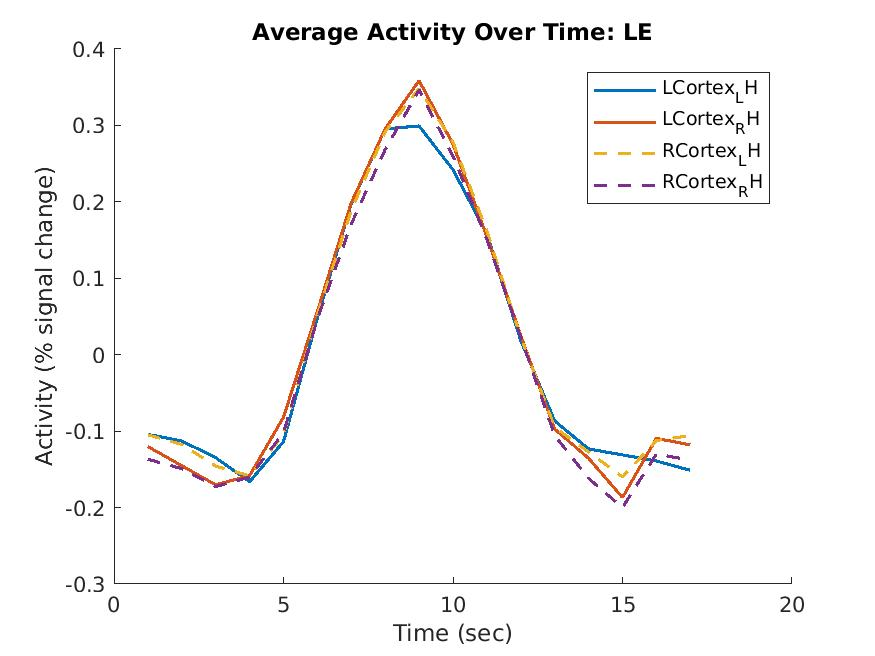
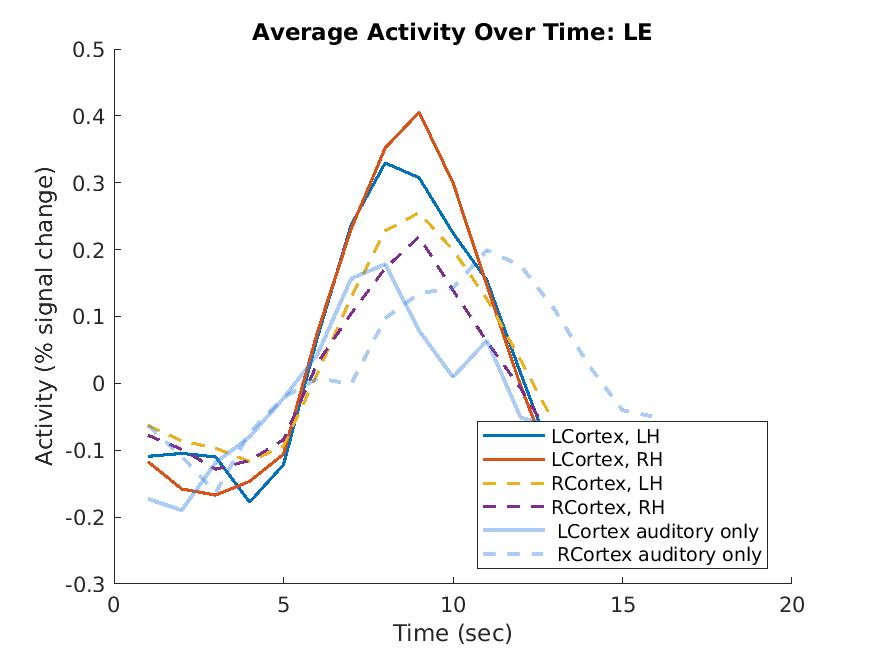
Update

diff --git a/plotTimeCourseOnePlot.m b/plotTimeCourseOnePlot.m
@@ -1,45 +1,67 @@
 function plotTimeCourseOnePlot()
-    params = setAnalysisParams();;
-    data = load(fullfile(params.timeCourseOutDir, "time_course_mean.mat"));
+    params = setAnalysisParams();
+    data = load(fullfile(params.experimentDir, "figures", "timeCourseSignificantVoxels", "time_course_mean.mat"));
+    auditoryData = load(fullfile(params.timeCourseOutDir,  'time_course_auditory_mean.mat'));
     for ear = ["LE", "RE"]
         figure; hold on;
-            % Create the variable names dynamically
-            varName_LCortex_LH = strcat('average_', ear, '_LCortex', '_LH');
-            varName_LCortex_RH = strcat('average_', ear, '_LCortex', '_RH');
-            varName_RCortex_LH = strcat('average_', ear, '_RCortex', '_LH');
-            varName_RCortex_RH = strcat('average_', ear, '_RCortex', '_RH');
+        % Create the variable names dynamically
+        varName_LCortex_LH = strcat('average_', ear, '_LCortex', '_LH');
+        varName_LCortex_RH = strcat('average_', ear, '_LCortex', '_RH');
+        varName_RCortex_LH = strcat('average_', ear, '_RCortex', '_LH');
+        varName_RCortex_RH = strcat('average_', ear, '_RCortex', '_RH');
 
-            % Access the data from the structure dynamically
-            LCortex_LH_data = data.(varName_LCortex_LH);
-            LCortex_RH_data = data.(varName_LCortex_RH);
-            RCortex_LH_data = data.(varName_RCortex_LH);
-            RCortex_RH_data = data.(varName_RCortex_RH);
+        varName_LE_LCortex =  strcat('average_', ear, '_LCortex');
+        varName_LE_RCortex =  strcat('average_', ear, '_RCortex');
+        varName_RE_LCortex =  strcat('average_', ear, '_LCortex');
+        varName_RE_RCortex =  strcat('average_', ear, '_RCortex');
 
- % Plot the data
-            hold on;
-            plot(LCortex_LH_data, 'LineWidth', 1.5);
-            plot(LCortex_RH_data, 'LineWidth', 1.5);
-            plot(RCortex_LH_data, "--", 'LineWidth', 1.5);
-            plot(RCortex_RH_data, "--", 'LineWidth', 1.5);
+        % Access the data from the structure dynamically
+        LCortex_LH_data = data.(varName_LCortex_LH);
+        LCortex_RH_data = data.(varName_LCortex_RH);
+        RCortex_LH_data = data.(varName_RCortex_LH);
+        RCortex_RH_data = data.(varName_RCortex_RH);
 
-            % Adding Title, Labels, and Legend
-            titleStr = sprintf("Average Activity Over Time: %s", ear);
-            title(titleStr);
-            xlabel('Time (sec)');
-            ylabel('Activity (% signal change)');
-            legend({ ...
-                     ['LCortex_LH'], ...
-                     ['LCortex_RH'], ...
-                     ['RCortex_LH'], ...
-                     ['RCortex_RH']}, ...
-                    'Location', 'best'); % must be in this order - based on order of plotting above
-            hold off;
+        LE_LCortex_data = (auditoryData.(varName_LE_LCortex));
+        LE_RCortex_data = (auditoryData.(varName_LE_RCortex));
+        RE_LCortex_data = (auditoryData.(varName_RE_LCortex));
+        RE_RCortex_data = (auditoryData.(varName_RE_RCortex));
 
-            % Saving the figure to a jpg file
-            titleStr = sprintf("Average Activity Over Time %s (joint plot)", ear);
-            fileName = strcat(strrep(titleStr, " ", "_"), '.jpg'); % Replacing spaces with underscores for the filename
-            fileName = fullfile(params.experimentDir,  "figures", fileName);
-            saveas(gcf, fileName, 'jpg'); % gcf gets the current figure handle, fileName is the desired file name, 'jpg' specifies the file format
+        % Plot the data
+        hold on;
+        plot(LCortex_LH_data, 'LineWidth', 1.5);
+        plot(LCortex_RH_data, 'LineWidth', 1.5);
+        plot(RCortex_LH_data, "--", 'LineWidth', 1.5);
+        plot(RCortex_RH_data, "--", 'LineWidth', 1.5);
+
+       switch ear
+         case "LE"
+        plot(LE_LCortex_data, 'LineWidth', 1.9, 'Color', [0.2 0.5 0.9 0.4]);
+        plot(LE_RCortex_data, "--", 'LineWidth', 1.9, 'Color', [0.2 0.5 0.9 0.4]);
+         case "RE"
+        plot(RE_LCortex_data, 'LineWidth', 1.9, 'Color', [0.2 0.5 0.9 0.4]);
+        plot(RE_RCortex_data, "--", 'LineWidth', 1.9, 'Color', [0.2 0.5 0.9 0.4]);
+       end
+
+        % Adding Title, Labels, and Legend
+        titleStr = sprintf("Average Activity Over Time: %s", ear);
+        title(titleStr);
+        xlabel('Time (sec)');
+        ylabel('Activity (% signal change)');
+        legend({ ...
+                 ['LCortex, LH'], ...
+                 ['LCortex, RH'], ...
+                 ['RCortex, LH'], ...
+                 ['RCortex, RH'], ...
+                 [' LCortex auditory only'], ...
+                 [' RCortex auditory only']}, ...
+               'Location', 'best'); % must be in this order - based on order of plotting above
+        hold off;
+
+        % Saving the figure to a jpg file
+        titleStr = sprintf("Average Activity Over Time %s joint", ear);
+        fileName = strcat(strrep(titleStr, " ", "_"), '.jpg'); % Replacing spaces with underscores for the filename
+        fileName = fullfile(params.experimentDir,  "figures", fileName);
+        saveas(gcf, fileName, 'jpg'); % gcf gets the current figure handle, fileName is the desired file name, 'jpg' specifies the file format
 
     end
 end

diff --git a/computeTimeCourseAuditory.m b/computeTimeCourseAuditory.m
@@ -11,19 +11,26 @@ function computeTimeCourseAuditory()
 
     rightMaskImg.data=niftiread(params.rightRoiMask.path);
     rightMaskImg.info=niftiinfo(params.rightRoiMask.path);
-
-    leftMaskImg.data=niftiread(params.leftRoiMask.path);
-    leftMaskImg.info=niftiinfo(params.leftRoiMask.path);
-
     rightLinearIndex=find(rightMaskImg.data);
     [x,y,z]=ind2sub(size(rightMaskImg.data),rightLinearIndex);
     % These are the locations in 3D of all voxels belonging to the ROI
     rightLocations=[x,y,z];
 
+    leftMaskImg.data=niftiread(params.leftRoiMask.path);
+    leftMaskImg.info=niftiinfo(params.leftRoiMask.path);
     leftLinearIndex=find(leftMaskImg.data);
     [x,y,z]=ind2sub(size(leftMaskImg.data),leftLinearIndex);
     % These are the locations in 3D of all voxels belonging to the ROI
     leftLocations=[x,y,z];
+
+    bilateralMaskImg.data=niftiread(params.bilateralAuditoryCortexMask.path);
+    bilateralMaskImg.info=niftiinfo(params.bilateralAuditoryCortexMask.path);
+    bilateralLinearIndex=find(bilateralMaskImg.data);
+    [x,y,z]=ind2sub(size(bilateralMaskImg.data),bilateralLinearIndex);
+    % These are the locations in 3D of all voxels belonging to the ROI
+    bilateralLocations=[x,y,z];
+
+
     %% Initialize matrices for each combination
     % Trial parameters
     trialLength = 16; % 16 seconds/TRs
@@ -56,30 +63,37 @@ function computeTimeCourseAuditory()
             REtrials = T.ear == "R";
             LEtrials = T.ear == "L";
 
-            % load percent-signal-change
+            %% load percent-signal-change data
             pscFileName = fullfile(params.multiTOutDirAuditory, sprintf("%d_PercentSignalChange_%d_auditoryLoc.nii.gz", subId, runNumber));
-%             movefile(pscFileName, newPscFileName);
-            if bUseSignificantVoxelsOnly
-                % Apply a mask of significant voxels from the multi-t analysis
-                maskedPscFileName = fullfile(params.multiTOutDir, sprintf("%d_PercentSignalChange_%d_auditoryLoc_masked.nii.gz", subId, runNumber));
+
+            % Apply a mask of significant voxels from the multi-t analysis
+            if params.bUseSignificantVoxelsOnly
+                maskedPscFileName = fullfile(params.multiTOutDirAuditory, sprintf("%d_PercentSignalChange_%d_auditoryLoc_masked.nii.gz", subId, runNumber));
+                if ~exist(maskedPscFileName)
                 cmd = sprintf("fslmaths %s -mul %s %s", pscFileName, params.significantVoxelsMask.bilateral.path, maskedPscFileName)
-                system(cmd);
-                pscMatrix = niftiread(maskedPscFileName);
-            else
-                pscMatrix = niftiread(pscFileName);
+                    system(cmd);
+                    pscFileName = maskedPscFileName; % override filename
+                end
             end
 
-            pscMatrix(pscMatrix == 0) = NaN;
+            % Load the matrix
+            pscMatrix = niftiread(pscFileName);
 
+            % zeros from the mask, and 0.00001 from the PSC transofrmation will mess with the cross-voxel average
+            pscMatrix(pscMatrix == 0 | pscMatrix == 0.00001) = NaN;
+
+            %% extract trial data by time
             % Get the trial start times.
             startTimes = round(str2double(T.start_time));
             maxScanTime = size(pscMatrix, 4);
+
             % Get the average of the activation along the trial
             % trialData = pscMatrix(:, :, :, startTime:endTime);
             % meanTrialData = mean(trialData, 4);
 
             % Sample the trial's data where we found it's most likely to peak
             endTimes = startTimes + trialLength;
+
             % some scans are cut short - find the last actual trial we have
             currMinTrials = max(find(endTimes < maxScanTime));
             endTimes = endTimes(1:currMinTrials);
@@ -87,6 +101,7 @@ function computeTimeCourseAuditory()
                 currTrialData = pscMatrix(:, :, :, startTimes(t):endTimes(t));
                 trialData(:, :, :, :, t) = currTrialData;
             end
+
             % Average time courses of all trials
             LETrialData = mean(trialData(:,:,:,:,LEtrials(1:currMinTrials)), 5, 'omitnan');
             RETrialData = mean(trialData(:,:,:,:,REtrials(1:currMinTrials)), 5, 'omitnan');
@@ -111,12 +126,12 @@ function computeTimeCourseAuditory()
                 for i = 1:length(linearIndex)
                     extractedValues(i, :) = squeeze(LETrialData(locations(i, 1), locations(i, 2), locations(i, 3), :));
                 end
-                LEMeanTrialDataInMask = mean(extractedValues, 1);
+                LEMeanTrialDataInMask = mean(extractedValues, 1, "omitnan");
 
                 for i = 1:length(linearIndex)
                     extractedValues(i, :) = squeeze(RETrialData(locations(i, 1), locations(i, 2), locations(i, 3), :));
                 end
-                REMeanTrialDataInMask = mean(extractedValues, 1);
+                REMeanTrialDataInMask = mean(extractedValues, 1, "omitnan");
 
                 auditoryCortexMean.(auditoryCortex).LE = LEMeanTrialDataInMask;
                 auditoryCortexMean.(auditoryCortex).RE = REMeanTrialDataInMask;

diff --git a/createAuditoryPSC.m b/createAuditoryPSC.m
@@ -2,31 +2,42 @@ function createAuditoryPSC()
     params = setAnalysisParams();
     for S = 1:length(params.subjects)
         subId = params.subjects(S)
+        functionalDir = sprintf(params.functionalDir, subId);
         % Initialization - here because of parallel computing
         pscMatrix = [];
         for runNumber = [1:2]
-            pscFileName = fullfile(params.multiTOutDir, sprintf("%d_PercentSignalChange_%d_auditoryLoc.nii.gz", subId, runNumber));
-            if exist(pscFileName, 'file') && ~params.override
-                continue
-            end
-            functionalDir = sprintf(params.functionalDir, subId);
             featDir = fullfile(functionalDir, ...
                                sprintf("sub%d_auditoryLoc_%d.feat", ...
                                        subId, ...
                                        runNumber));
-            if ~exist(fullfile(featDir,'filtered_func_data_MNI.nii.gz'),'file') || params.override
-                tranformFeatDirToMNI(featDir)
+            pscFileName = fullfile(params.multiTOutDirAuditory, sprintf("%d_PercentSignalChange_%d_auditoryLoc", subId, runNumber));
+            if ~exist(strcat(pscFileName, ".nii.gz"), 'file') || params.override
+                functionalDir = sprintf(params.functionalDir, subId);
+                featDir = fullfile(functionalDir, ...
+                                   sprintf("sub%d_auditoryLoc_%d.feat", ...
+                                           subId, ...
+                                           runNumber));
+
+                % Do we need to regenerate the warped image?
+                if ~exist(fullfile(featDir,'filtered_func_data_MNI.nii.gz'),'file') || params.override
+                    tranformFeatDirToMNI(featDir)
+                else
+                    fprintf('MNI transform for subject %d run no. %d already exists\n', subId, runNumber)
+                end
+
+                % Calculate the actual matrix
+                functionalDataPath = fullfile(featDir,'filtered_func_data_MNI.nii.gz');
+                fprintf("reading from %d, run %d\n", subId, runNumber)
+                functionalData = niftiread(functionalDataPath);
+                metadata = niftiinfo(functionalDataPath);
+                fprintf("calculating PSC matrix")
+                pscMatrix = single(calcPercentSignalChange(functionalData));
+                fprintf("writing PSC matrix to file")
+                niftiwrite(pscMatrix, pscFileName, metadata, 'Compressed',true);
             else
-                fprintf('MNI transform for subject %d run no. %d already exists\n', subId, runNumber)
+                fprintf('PSC matrix for subject %d run no. %d already exists\n', subId, runNumber)
             end
-            functionalDataPath = fullfile(featDir,'filtered_func_data_MNI.nii.gz');
-            fprintf("reading from %d, run %d\n", subId, runNumber)
-            functionalData = niftiread(functionalDataPath);
-            metadata = niftiinfo(functionalDataPath);
-            fprintf("calculating PSC matrix")
-            pscMatrix = calcPercentSignalChange(functionalData);
-            fprintf("writing PSC matrix to file")
-            niftiwrite(pscMatrix, pscFileName, metadata, 'Compressed',true);
+
         end
     end
 end

diff --git a/computeTimeCourse.m b/computeTimeCourse.m
@@ -122,16 +122,16 @@ function computeTimeCourse()
                     linearIndex = rightLinearIndex;
                 end
 
-                %  [x, y, z, t] = size(LHTrialData);
-                % mat = reshape(LHTrialData, x*y*z, t);
-                % matMasked = mat(linearIndex, :);
-                % LHMeanTrialInMask1 = mean(matMasked, 1, "omitnan");
+                 [x, y, z, t] = size(LHTrialData);
+                mat = reshape(LHTrialData, x*y*z, t);
+                matMasked = mat(linearIndex, :);
+                LHMeanTrialInMask1 = mean(matMasked, 1, "omitnan");
 
 
-                % [x, y, z, t] = size(RHTrialData);
-                % mat = reshape(RHTrialData, x*y*z, t);
-                % matMasked = mat(linearIndex, :);
-                % RHMeanTrialInMask1 = mean(matMasked, 1, "omitnan");
+                [x, y, z, t] = size(RHTrialData);
+                mat = reshape(RHTrialData, x*y*z, t);
+                matMasked = mat(linearIndex, :);
+                RHMeanTrialInMask1 = mean(matMasked, 1, "omitnan");
 
                     for i = 1:length(linearIndex)
                         extractedValues(i, :) = squeeze(LHTrialData(locations(i, 1), locations(i, 2), locations(i, 3), :));
@@ -161,19 +161,13 @@ function computeTimeCourse()
             end %switch
         end % for run
 
-        LE_LH = mean(cat(5, data_LE{1}.LH, data_LE{2}.LH), 5);
-        LE_RH = mean(cat(5, data_LE{1}.RH, data_LE{2}.RH), 5);
-        RE_LH = mean(cat(5, data_RE{1}.LH, data_RE{2}.LH), 5);
-        RE_RH = mean(cat(5, data_RE{1}.RH, data_RE{2}.RH), 5);
+        data_LE = mean(cat(5, data{1}.LE, data{2}.LE), 5);
+        data_RE = mean(cat(5, data{1}.RE, data{2}.RE), 5);
 
-        LE_LCortex_LH = mean(cat(1, data_LE{1}.auditoryCortexMean.leftC.LH, data_LE{2}.auditoryCortexMean.leftC.LH));
-        LE_LCortex_RH = mean(cat(1, data_LE{1}.auditoryCortexMean.leftC.RH, data_LE{2}.auditoryCortexMean.leftC.RH));
-        LE_RCortex_LH = mean(cat(1, data_LE{1}.auditoryCortexMean.rightC.LH, data_LE{2}.auditoryCortexMean.rightC.LH));
-        LE_RCortex_RH = mean(cat(1, data_LE{1}.auditoryCortexMean.rightC.RH, data_LE{2}.auditoryCortexMean.rightC.RH));
-        RE_LCortex_LH = mean(cat(1, data_RE{1}.auditoryCortexMean.leftC.LH, data_RE{2}.auditoryCortexMean.leftC.LH));
-        RE_LCortex_RH = mean(cat(1, data_RE{1}.auditoryCortexMean.leftC.RH, data_RE{2}.auditoryCortexMean.leftC.RH));
-        RE_RCortex_LH = mean(cat(1, data_RE{1}.auditoryCortexMean.rightC.LH, data_RE{2}.auditoryCortexMean.rightC.LH));
-        RE_RCortex_RH = mean(cat(1, data_RE{1}.auditoryCortexMean.rightC.RH, data_RE{2}.auditoryCortexMean.rightC.RH));
+        LE_LCortex = mean(cat(1, data{1}.auditoryCortexMean.leftC.LE, data{2}.auditoryCortexMean.leftC.LE));
+        LE_RCortex = mean(cat(1, data{1}.auditoryCortexMean.rightC.LE, data{2}.auditoryCortexMean.rightC.LE));
+        RE_LCortex = mean(cat(1, data{1}.auditoryCortexMean.leftC.RE, data{2}.auditoryCortexMean.leftC.RE));
+        RE_RCortex = mean(cat(1, data{1}.auditoryCortexMean.rightC.RE, data{2}.auditoryCortexMean.rightC.RE));
 
         info = "The mean across runs of trial activation (in % signal change), averaged within the auditory cortex. Each file represents a single subject";
         % Write to file

diff --git a/setAnalysisParams.m b/setAnalysisParams.m
@@ -6,6 +6,7 @@ function params=setAnalysisParams();
     params.subjects=[101:116];
     % params.subjects=[101:103];
     params.discardedSubjects=[102, 104, 105, 107, 113];
+    % params.discardedSubjects=[102, 104, 105, 107, 113];
     params.subjects = setdiff(params.subjects, params.discardedSubjects);
 
     params.mainDir=params.baseDirPath;
